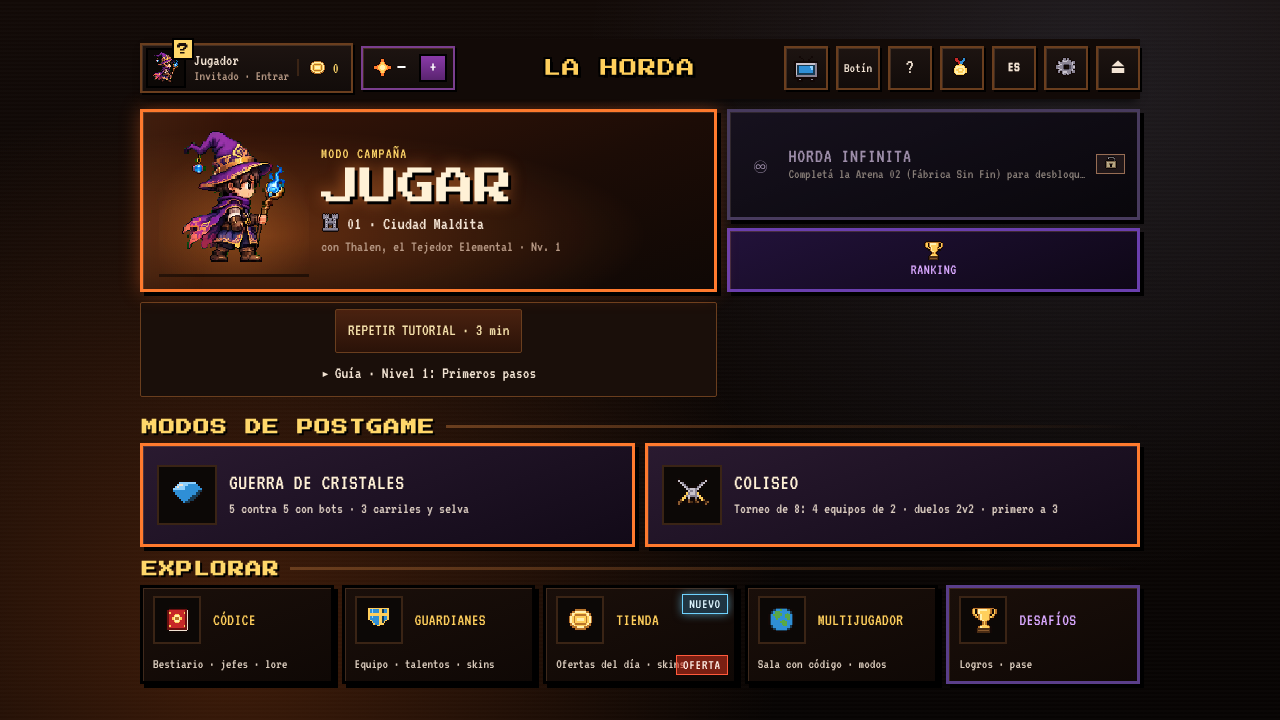
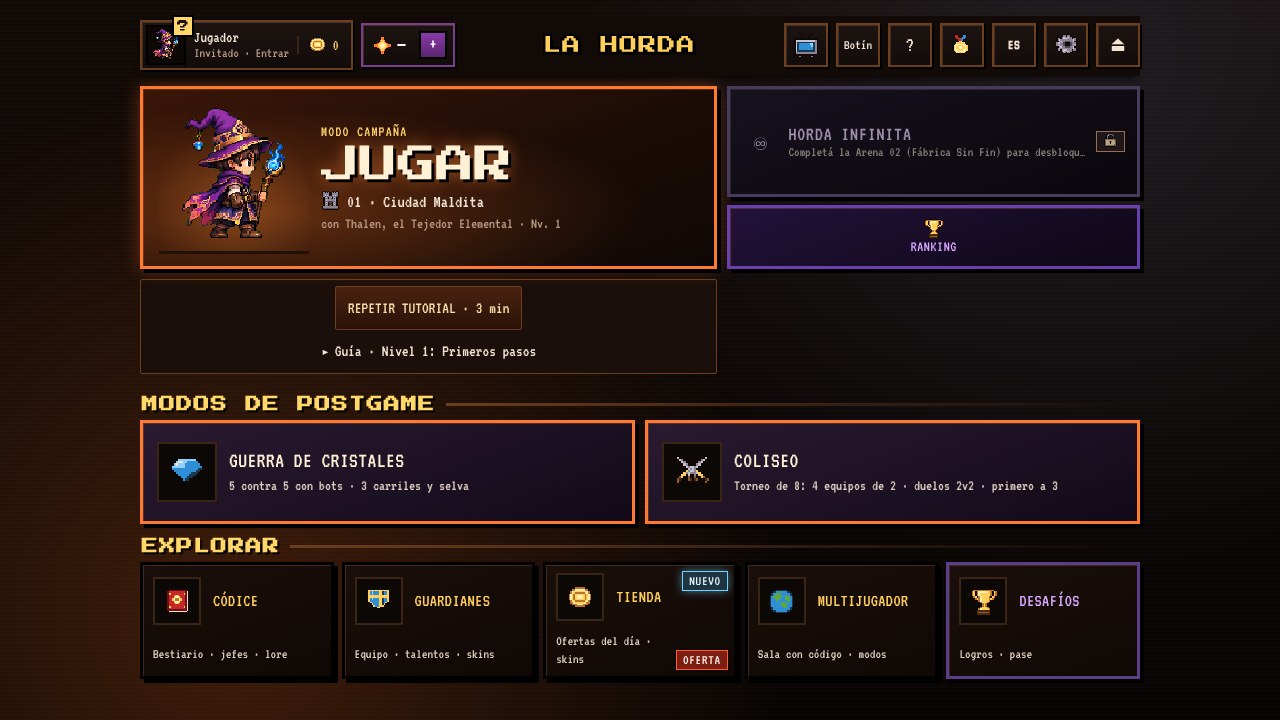
UI menús: lote A (pausa, opciones, título, hub, tipografía) y avance de B
Claude-Session: https://claude.ai/code/session_01LxJEcjGHLngn4o4wPZAHs2

Changed region(s): [[0.0938, 0.0, 0.9062, 0.9778]]

diff --git a/css/menu-polish-b.css b/css/menu-polish-b.css
@@ -8,10 +8,10 @@
 .arena-thumb::after{ content:""; position:absolute; inset:0; pointer-events:none;
   background:repeating-linear-gradient(0deg, rgba(0,0,0,.14) 0 1px, transparent 1px 3px), linear-gradient(180deg, transparent 55%, rgba(8,4,2,.55)); }
 .arena-thumb.no-art{ background:repeating-linear-gradient(45deg,#2a1c12 0 6px,#221710 6px 12px); }
-.arena-thumb.is-locked i{ filter:brightness(0) contrast(1.2); opacity:.9; }
+.arena-thumb.is-locked i{ filter:grayscale(1) sepia(.45) brightness(.62) contrast(1.15); opacity:.9; }
 .arena-thumb.is-locked{ background:linear-gradient(180deg,#5a4630,#2c2015); }
-.arena-thumb-lock{ position:absolute; z-index:2; left:50%; top:50%; transform:translate(-50%,-50%); font-size:1.7rem; line-height:1;
-  padding:6px 8px; background:rgba(10,6,3,.78); border:2px solid #000; box-shadow:0 0 0 1px rgba(255,200,110,.5); }
+.arena-thumb-lock{ position:absolute; z-index:2; left:50%; top:50%; transform:translate(-50%,-50%); font-size:2.2rem; line-height:1;
+  filter:drop-shadow(0 2px 0 #000) drop-shadow(0 0 6px rgba(0,0,0,.9)); }
 .arena-card:not(.locked) .arena-thumb{ border-color:#000; }
 .arena-card.selected .arena-thumb{ box-shadow:inset 0 0 0 2px var(--ember1); }
 .arena-card .arena-card-icon{ display:none; }
@@ -21,7 +21,7 @@
 .arena-card .arena-card-badge{ z-index:3; top:18px; right:20px; }
 @media (max-height:500px) and (orientation:landscape){
   #arena-grid .arena-thumb{ height:54px; margin-bottom:5px; }
-  #arena-grid .arena-thumb-lock{ font-size:1.1rem; padding:3px 5px; }
+  #arena-grid .arena-thumb-lock{ font-size:1.4rem; }
   #arena-grid .arena-card-badge{ top:14px; right:16px; }
 }
 
@@ -36,7 +36,7 @@
 .end-hero.win::before{ background:radial-gradient(ellipse at 50% 85%, rgba(255,214,120,.5), transparent 65%), linear-gradient(180deg, transparent 50%, rgba(40,20,0,.45)); }
 .end-hero::after{ content:""; position:absolute; inset:0; z-index:3; pointer-events:none;
   background:repeating-linear-gradient(0deg, rgba(0,0,0,.12) 0 1px, transparent 1px 3px); }
-.end-hero-fig{ position:absolute; z-index:2; left:50%; bottom:2px; width:112px; height:112px; margin-left:-56px; image-rendering:pixelated;
+.end-hero-fig{ background:transparent; position:absolute; z-index:2; left:50%; bottom:2px; width:112px; height:112px; margin-left:-56px; image-rendering:pixelated;
   filter:drop-shadow(0 0 8px var(--end-c)); }
 .end-hero.lose .end-hero-fig{ filter:grayscale(.85) brightness(.7); transform:rotate(-18deg) translateY(8px); transform-origin:50% 90%; }
 .end-hero.win .end-hero-fig{ animation:endHop 1.1s steps(6) infinite; }
@@ -45,7 +45,7 @@
   background:rgba(10,6,3,.8); border:2px solid #000; }
 body.reduce-motion .end-hero.win .end-hero-fig{ animation:none; }
 @media (prefers-reduced-motion:reduce){ .end-hero.win .end-hero-fig{ animation:none; } }
-#victory-step-body .end-hero{ width:100%; }
+#victory-step-body .end-hero{ width:100%; order:-5; }
 
 /* ---------- Filas de resultados (datos reales del run) ---------- */
 .end-rows{ width:min(440px,92vw); margin:6px auto 8px; padding:6px 10px; border:3px solid #000; background:linear-gradient(160deg,var(--panel),#0f0805);
@@ -58,7 +58,7 @@ body.reduce-motion .end-hero.win .end-hero-fig{ animation:none; }
 #victory-step-body .res-row, #victory-step-body .vic-xp-row{ font-family:var(--font-retro); font-size:1.1rem; }
 #victory-step-body .res-row b, #victory-step-body .vic-xp-row b{ font-variant-numeric:tabular-nums; }
 @media (max-height:500px){
-  .end-hero{ height:84px; margin-bottom:4px; } .end-hero-fig{ width:76px; height:76px; margin-left:-38px; }
+  .end-hero{ height:84px; margin-bottom:4px; } .end-hero-cap{ left:auto; right:6px; font-size:.9rem; } .end-hero-fig{ width:76px; height:76px; margin-left:-38px; }
   .end-rows{ padding:3px 8px; } .end-row{ font-size:1rem; padding:1px 0; }
 }
 

diff --git a/css/menu-polish-a.css b/css/menu-polish-a.css
@@ -105,9 +105,10 @@ body.reduce-motion input[type=checkbox].ui-toggle, body.reduce-motion input[type
 @media (min-width:1000px) and (max-height:800px){
   #mainmenu-screen .hub-row-explore{ grid-template-columns:repeat(5,minmax(0,1fr)); gap:8px; }
   #mainmenu-screen .hub-row-explore .hub-tile{ min-height:76px; padding:8px 10px; }
-  #mainmenu-screen .hub-row-explore .hub-tile-title{ font-size:17px; }
+  #mainmenu-screen .hub-row-explore .hub-tile-title{ font-size:18px; }
   #mainmenu-screen .hub-row-explore .hub-tile-sub{ font-size:14px; }
 }
 @media (min-width:1000px) and (max-height:800px){
   #mainmenu-screen #mainmenu-tienda-btn .hub-tile-sub{ padding-right:62px; }
+  body #mainmenu-screen.hub-screen{ padding-bottom:64px; }   /* aire inferior: DESAFÍOS entra completo y el hub sigue deslizándose */
 }

diff --git a/js/ui/end-screens.js b/js/ui/end-screens.js
@@ -46,7 +46,7 @@ function endPaintFigures(root){
   const paint = ()=>{
     if((state!=="victory" && state!=="gameover") || !cvs[0].isConnected){ clearInterval(_endFigTimer); return; }
     cvs.forEach(c=>{ try{ const g = c.getContext("2d"); g.clearRect(0,0,c.width,c.height); g.imageSmoothingEnabled = false;
-      const win = c.dataset.win==="1"; drawChampFigure(g, c.dataset.endFig, c.width/2, c.height*0.9, 3, 1, win ? performance.now()%100000 : 0, win); }catch(e){} });
+      const win = c.dataset.win==="1"; drawChampFigure(g, c.dataset.endFig, c.width/2, c.height*0.9, 2.3, 1, win ? performance.now()%100000 : 0, win); }catch(e){} });
   };
   paint(); if(cvs.length && !endReduceMotion()) _endFigTimer = setInterval(paint, 110);
 }
